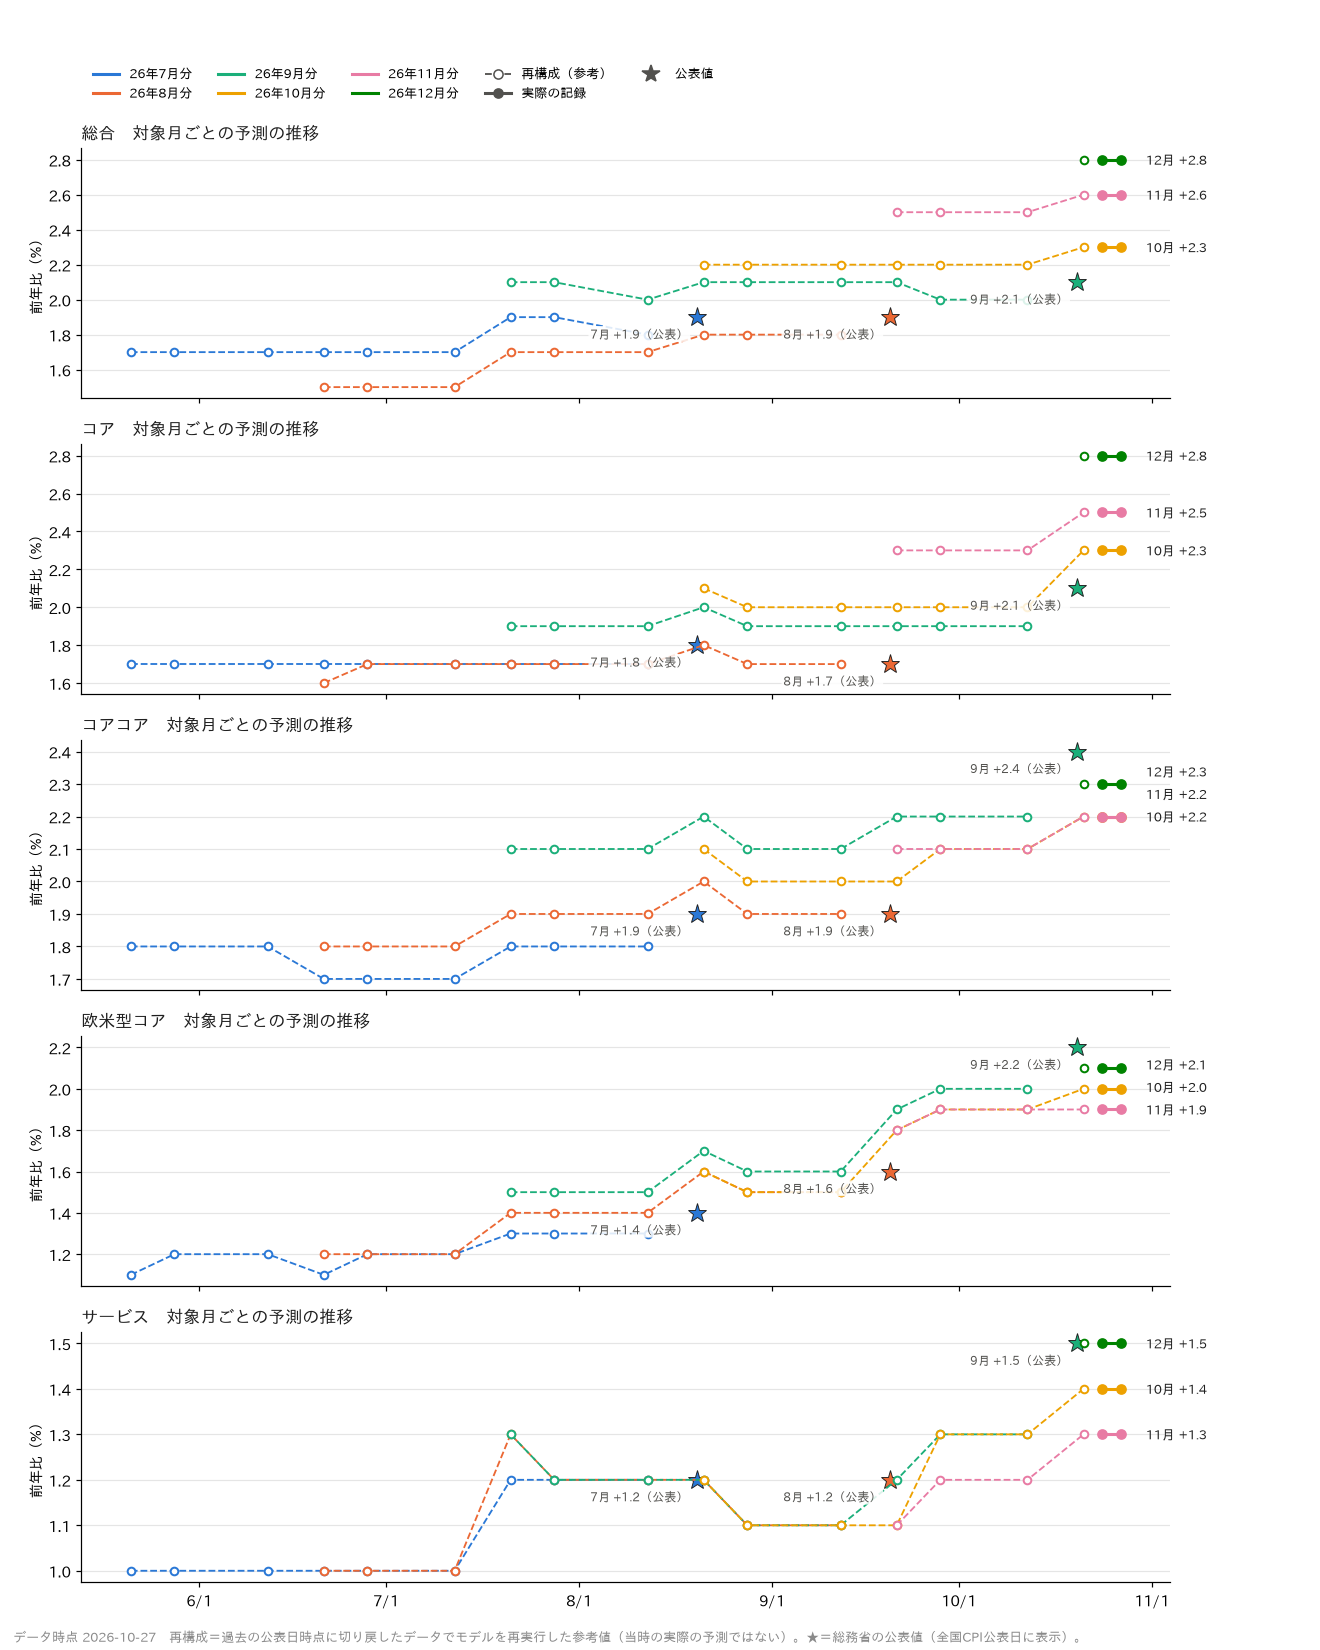
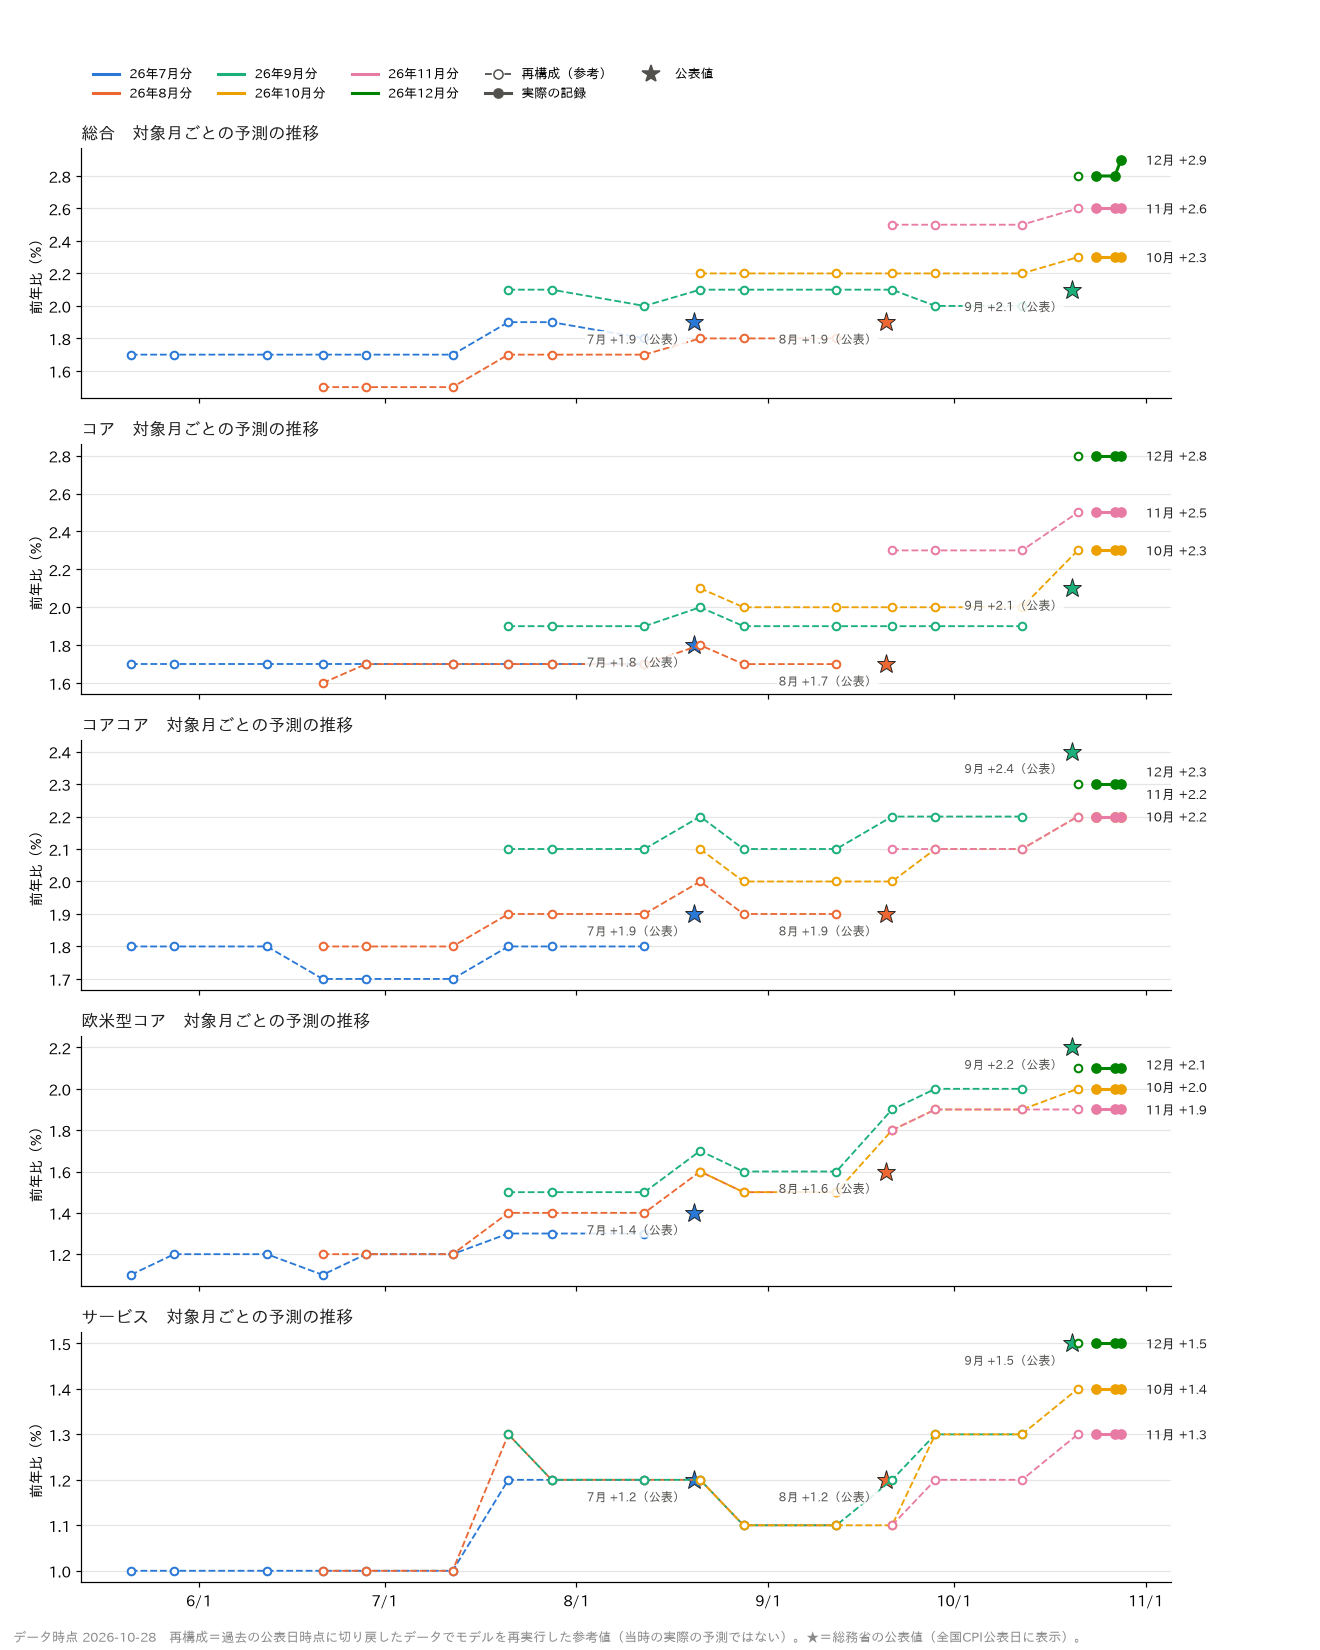
forecast 2026-10-28 (自動実行)

diff --git a/README.md b/README.md
@@ -17,13 +17,13 @@
 
 | 前年同月比（%） | 2026年7月<br>実績 | 2026年8月<br>実績 | 2026年9月<br>実績 | **2026年10月**<br>予測 h=1 | **2026年11月**<br>予測 h=2 | **2026年12月**<br>予測 h=3 |
 |---|---:|---:|---:|---:|---:|---:|
-| 総合 | +1.9 | +1.9 | +2.1 | **+2.3** <sub>[+2.0, +2.6]</sub> | **+2.6** <sub>[+2.2, +3.1]</sub> | **+2.8** <sub>[+2.3, +3.5]</sub> |
-| **コア** | +1.8 | +1.7 | +2.1 | **+2.3** <sub>[+2.1, +2.6]</sub> | **+2.5** <sub>[+2.2, +2.9]</sub> | **+2.8** <sub>[+2.4, +3.3]</sub> |
-| コアコア | +1.9 | +1.9 | +2.4 | **+2.2** <sub>[+2.0, +2.5]</sub> | **+2.2** <sub>[+1.9, +2.6]</sub> | **+2.3** <sub>[+2.0, +2.7]</sub> |
-| 欧米型コア | +1.4 | +1.6 | +2.2 | **+2.0** <sub>[+1.8, +2.3]</sub> | **+1.9** <sub>[+1.6, +2.3]</sub> | **+2.1** <sub>[+1.8, +2.5]</sub> |
-| サービス | +1.2 | +1.2 | +1.5 | **+1.4** <sub>[+1.1, +1.6]</sub> | **+1.3** <sub>[+1.0, +1.6]</sub> | **+1.5** <sub>[+1.2, +1.9]</sub> |
+| 総合 | +1.9 | +1.9 | +2.1 | **+2.3** <sub>[+2.1, +2.5]</sub> | **+2.6** <sub>[+2.3, +3.1]</sub> | **+2.9** <sub>[+2.5, +3.6]</sub> |
+| **コア** | +1.8 | +1.7 | +2.1 | **+2.3** <sub>[+2.1, +2.5]</sub> | **+2.5** <sub>[+2.3, +2.9]</sub> | **+2.8** <sub>[+2.4, +3.3]</sub> |
+| コアコア | +1.9 | +1.9 | +2.4 | **+2.2** <sub>[+2.1, +2.4]</sub> | **+2.2** <sub>[+2.0, +2.6]</sub> | **+2.3** <sub>[+2.0, +2.8]</sub> |
+| 欧米型コア | +1.4 | +1.6 | +2.2 | **+2.0** <sub>[+1.8, +2.3]</sub> | **+1.9** <sub>[+1.7, +2.3]</sub> | **+2.1** <sub>[+1.8, +2.6]</sub> |
+| サービス | +1.2 | +1.2 | +1.5 | **+1.4** <sub>[+1.2, +1.6]</sub> | **+1.3** <sub>[+1.1, +1.6]</sub> | **+1.5** <sub>[+1.2, +1.9]</sub> |
 
-データ時点 2026-10-27（最新の公表月 2026年9月）。実績は総務省の公表値、［ ］は90%区間（政策の不確実性は含まない）。自動実行のたびに更新。
+データ時点 2026-10-28（最新の公表月 2026年9月）。実績は総務省の公表値、［ ］は90%区間（政策の不確実性は含まない）。自動実行のたびに更新。
 
 **予測の前提（政策）**　※発表があれば `scripts/policy.csv` に追記して更新
 - 電気・ガス料金支援：10月分は反映、2026年11月分（10月使用分）以降は未発表のため値引きなしで予測（延長されれば電気・ガス代は下振れ）
@@ -33,7 +33,6 @@
 
 | 時点 | 2026年7月分 | 2026年8月分 | 2026年9月分 | 2026年10月分 | 2026年11月分 | 2026年12月分 |
 |---|---:|---:|---:|---:|---:|---:|
-| 2026-08-28（再構成） |  | +1.7 | +1.9 | +2.0 |  |  |
 | 2026-09-12（再構成） |  | +1.7 | +1.9 | +2.0 |  |  |
 | 2026-09-21（再構成） |  |  | +1.9 | +2.0 | +2.3 |  |
 | 2026-09-28（再構成） |  |  | +1.9 | +2.0 | +2.3 |  |
@@ -41,6 +40,7 @@
 | 2026-10-21（再構成） |  |  |  | +2.3 | +2.5 | +2.8 |
 | 2026-10-24（記録） |  |  |  | +2.3 | +2.5 | +2.8 |
 | 2026-10-27（記録） |  |  |  | +2.3 | +2.5 | +2.8 |
+| 2026-10-28（記録） |  |  |  | +2.3 | +2.5 | +2.8 |
 | **公表値** | +1.8 | +1.7 | +2.1 |  |  |  |
 
 ![予測の推移](output/history.png)

diff --git a/data/HISTORY.md b/data/HISTORY.md
@@ -9,6 +9,7 @@
 
 | 記録日時 | 総合 | **コア** | 変化 | コアコア | 欧米型コア | サービス | 主な要因（コアへの寄与） | 入ったデータ |
 |---|---:|---:|---:|---:|---:|---:|---|---|
+| 2026-10-28 18:35 | +2.9 | **+2.8** | +0.0 | +2.3 | +2.1 | +1.5 | 変化なし | ガソリン・灯油（週次） 10/26調査 |
 | 2026-10-27 17:54 | +2.8 | **+2.8** | +0.0 | +2.3 | +2.1 | +1.5 | 変化なし | 野菜小売価格（週次） 10/19調査 |
 | 2026-10-24 12:27 | +2.8 | **+2.8** | +0.0 | +2.3 | +2.1 | +1.5 | 変化なし | なし |
 | 2026-10-24 11:48 | +2.8 | **+2.8** | +0.0 | +2.3 | +2.1 | +1.5 | 変化なし | なし |
@@ -18,6 +19,7 @@
 
 | 記録日時 | 総合 | **コア** | 変化 | コアコア | 欧米型コア | サービス | 主な要因（コアへの寄与） | 入ったデータ |
 |---|---:|---:|---:|---:|---:|---:|---|---|
+| 2026-10-28 18:35 | +2.6 | **+2.5** | +0.0 | +2.2 | +1.9 | +1.3 | 変化なし | ガソリン・灯油（週次） 10/26調査 |
 | 2026-10-27 17:54 | +2.6 | **+2.5** | +0.0 | +2.2 | +1.9 | +1.3 | 変化なし | 野菜小売価格（週次） 10/19調査 |
 | 2026-10-24 12:27 | +2.6 | **+2.5** | +0.0 | +2.2 | +1.9 | +1.3 | 変化なし | なし |
 | 2026-10-24 11:48 | +2.6 | **+2.5** | +0.0 | +2.2 | +1.9 | +1.3 | 変化なし | なし |
@@ -27,6 +29,7 @@
 
 | 記録日時 | 総合 | **コア** | 変化 | コアコア | 欧米型コア | サービス | 主な要因（コアへの寄与） | 入ったデータ |
 |---|---:|---:|---:|---:|---:|---:|---|---|
+| 2026-10-28 18:35 | +2.3 | **+2.3** | +0.0 | +2.2 | +2.0 | +1.4 | 変化なし | ガソリン・灯油（週次） 10/26調査 |
 | 2026-10-27 17:54 | +2.3 | **+2.3** | +0.0 | +2.2 | +2.0 | +1.4 | 変化なし | 野菜小売価格（週次） 10/19調査 |
 | 2026-10-24 12:27 | +2.3 | **+2.3** | +0.0 | +2.2 | +2.0 | +1.4 | 変化なし | なし |
 | 2026-10-24 11:48 | +2.3 | **+2.3** | +0.0 | +2.2 | +2.0 | +1.4 | 変化なし | なし |
